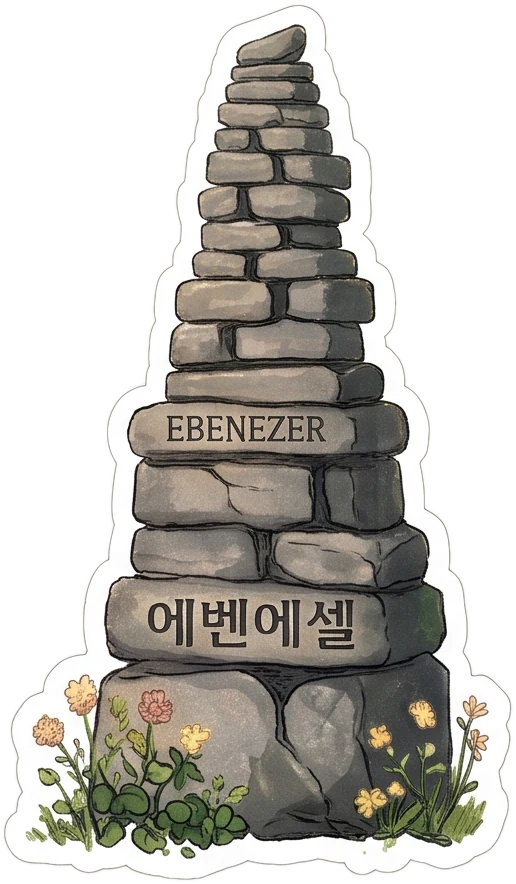
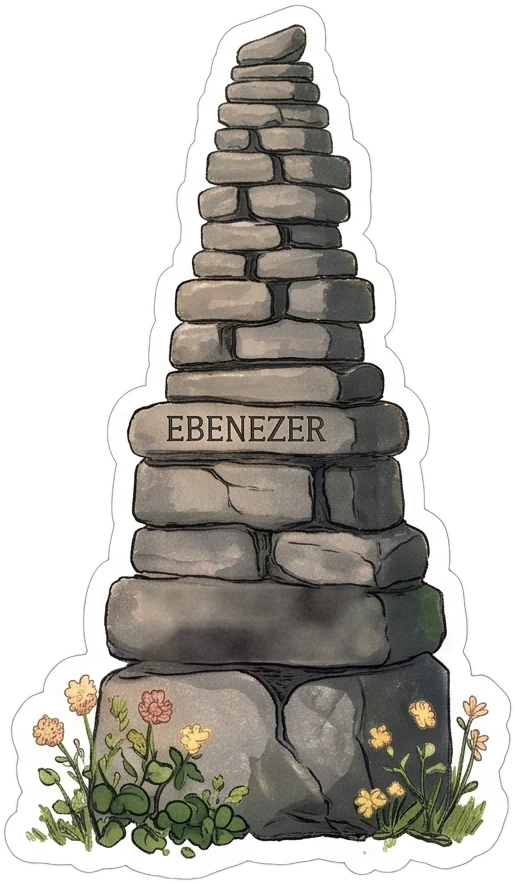
전체 화면을 시작화면 톤으로: 크림 바탕·갈색 글자·Italiana/고운바탕, 휴대폰 페이지도 같이
- 색·글꼴 토큰 교체, 버튼·칩·카메라 안내·카운트다운을 같은 톤으로
- 패널 제목은 한 줄에 맞게 크기 조정 (촬영 시작 버튼이 밀리지 않게)
- 돌탑 스티커의 한글 '에벤에셀' 글씨 지움
- 라벨의 ✦ 표시 정리

Claude-Session: https://claude.ai/code/session_011XYcDUqcndqHgyisKCmvB1

Changed region(s): [[0.2791, 0.6414, 0.7132, 0.7636]]

diff --git a/index.html b/index.html
@@ -13,29 +13,30 @@
 <link rel="apple-touch-icon" href="icon-512.png">
 <link rel="stylesheet" href="https://fonts.googleapis.com/css2?family=Anton&family=Inter:wght@500;600&family=Noto+Sans+KR:wght@400;500;700&family=Caveat:wght@700&family=Gowun+Dodum&family=Fraunces:ital,opsz,wght@1,9..144,500&family=Gaegu:wght@700&family=Space+Mono:wght@400;700&family=DM+Serif+Display:ital@1&family=Gowun+Batang:wght@400;700&family=Bagel+Fat+One&family=Italiana&display=swap">
 <style>
-  /* 포토부스 키오스크 — 흑백 에디토리얼. 밝은 회색 바탕, 흰 카드, 검은 알약 버튼, 좁고 굵은 영문 제목.
-     카메라(왼쪽/위) + 안내 패널(오른쪽/아래). 조명 아래 밝은 공간에 두는 기기라 밝은 화면 한 가지로 디자인. */
+  /* 포토부스 키오스크 — 시작화면(무지개 언덕)과 같은 톤: 따뜻한 크림 바탕, 짙은 갈색 글자·버튼,
+     얇은 세리프 영문(Italiana) + 고운바탕 제목. 카메라(왼쪽/위) + 안내 패널(오른쪽/아래). */
   :root {
     color-scheme: light;
-    --bg: #ececec;        /* 바탕 */
-    --card: #ffffff;      /* 패널 */
-    --soft: #f3f3f3;      /* 빈 칸, QR 카드 */
-    --line: #e1e1e1;
-    --ink: #111111;       /* 글자, 버튼 */
-    --mute: #8a8a8a;      /* 보조 글자 */
-    --ok: #1f7a3a; --warn: #c62828;
-    --display: "Anton", "Arial Narrow", "Noto Sans KR", sans-serif;
-    --latin: "Inter", system-ui, sans-serif;
+    --bg: #EEE6D8;        /* 바탕 */
+    --card: #FBF8F2;      /* 패널 */
+    --soft: #F3ECE0;      /* 빈 칸, QR 카드 */
+    --line: #E2D7C5;
+    --ink: #3A3029;       /* 글자, 버튼 */
+    --mute: #8A7D70;      /* 보조 글자 */
+    --ok: #4F7A45; --warn: #B4483C;
+    --display: "Italiana", "Gowun Batang", Georgia, serif;
+    --head: "Gowun Batang", "Noto Sans KR", serif;
+    --latin: "Gowun Batang", Georgia, serif;
     --body: "Noto Sans KR", system-ui, -apple-system, "Apple SD Gothic Neo", "Malgun Gothic", sans-serif;
   }
   * { box-sizing: border-box; }
   [hidden] { display: none !important; }
   html, body { height: 100%; margin: 0; overscroll-behavior: none; }
-  body { background: var(--bg); color: var(--ink); font-family: var(--body); font-size: 17px; letter-spacing: -0.01em;
+  body { background: radial-gradient(ellipse 90% 70% at 50% 0%, #FBF6EC 0%, var(--bg) 70%) fixed, var(--bg); color: var(--ink); font-family: var(--body); font-size: 17px; letter-spacing: -0.01em;
          -webkit-user-select: none; user-select: none; -webkit-tap-highlight-color: transparent; }
   button { font: inherit; color: inherit; touch-action: manipulation; }
   button:focus-visible, input:focus-visible, select:focus-visible { outline: 3px solid var(--ink); outline-offset: 3px; }
-  .label { font-family: var(--latin); font-weight: 600; font-size: 12px; letter-spacing: .14em; text-transform: uppercase; color: var(--mute); }
+  .label { font-family: var(--latin); font-weight: 400; font-size: 12.5px; letter-spacing: .18em; text-transform: uppercase; color: #7A6D61; }
 
   .app { height: 100%; display: grid; grid-template-columns: minmax(0, 1fr) 330px; gap: 20px;
          padding-block: max(20px, env(safe-area-inset-top, 0px)) max(20px, env(safe-area-inset-bottom, 0px));
@@ -43,7 +44,8 @@
 
   /* ---------- 카메라: 결과 사진과 같은 3:2, 남는 공간 안에서 최대 ---------- */
   .stage { container-type: size; min-height: 0; display: grid; place-items: center; }
-  .cam { position: relative; width: min(100cqw, calc(var(--ratio, 1.5) * 100cqh)); aspect-ratio: var(--ratio, 1.5); border-radius: 32px; overflow: hidden; background: #000; }
+  .cam { position: relative; width: min(100cqw, calc(var(--ratio, 1.5) * 100cqh)); aspect-ratio: var(--ratio, 1.5); border-radius: 28px; overflow: hidden; background: #2A231E;
+         box-shadow: 0 30px 60px -36px rgba(58,48,41,.55); }
   .cam video { width: 100%; height: 100%; object-fit: cover; display: block; }
   .cam video.mirror { transform: scaleX(-1); }
   /* 필터 미리보기: 영상에는 CSS 필터, 빛 효과는 위에 덧씌움 (찍힐 때는 같은 효과를 캔버스로 입힘) */
@@ -62,9 +64,9 @@
   .tray { display: flex; gap: 8px; overflow-x: auto; padding: 2px 2px 6px; scroll-snap-type: x proximity; }
   .tray button { flex: none; width: 64px; height: 64px; border-radius: 14px; border: 1px solid var(--line); background: var(--soft); padding: 6px; cursor: pointer; scroll-snap-align: start; }
   .tray button img { width: 100%; height: 100%; object-fit: contain; pointer-events: none; }
-  .tray button[aria-pressed="true"] { box-shadow: inset 0 0 0 2px var(--ink); background: #fff; }
+  .tray button[aria-pressed="true"] { box-shadow: inset 0 0 0 2px var(--ink); background: var(--card); }
   .stk-tools { display: flex; gap: 6px; align-items: center; flex-wrap: wrap; }
-  .stk-tools button { border: 1px solid var(--line); background: #fff; border-radius: 999px; padding: 8px 14px; font-size: 14px; font-weight: 500; cursor: pointer; }
+  .stk-tools button { border: 1px solid var(--line); background: var(--card); border-radius: 999px; padding: 8px 14px; font-size: 14px; font-weight: 500; cursor: pointer; }
   .stk-tools button:disabled { opacity: .35; }
   .stk-tools .hint { margin-left: auto; }
   .lookfx.film { opacity: 1; mix-blend-mode: multiply; background: radial-gradient(90% 90% at 50% 50%, transparent 55%, rgba(60,40,20,.35)); }
@@ -76,17 +78,17 @@
       linear-gradient(var(--b), var(--b)) bottom left / var(--l) var(--t) no-repeat, linear-gradient(var(--b), var(--b)) bottom left / var(--t) var(--l) no-repeat,
       linear-gradient(var(--b), var(--b)) bottom right / var(--l) var(--t) no-repeat, linear-gradient(var(--b), var(--b)) bottom right / var(--t) var(--l) no-repeat; }
   .chip { position: absolute; z-index: 3; top: 34px; left: 50%; transform: translateX(-50%); display: flex; align-items: center; gap: 10px;
-          background: #fff; color: var(--ink); padding: 10px 20px 10px 10px; border-radius: 999px; font-size: 18px; font-weight: 500; white-space: nowrap; }
-  .chip b { font-family: var(--latin); font-weight: 600; font-size: 13px; letter-spacing: .08em; background: var(--ink); color: #fff; border-radius: 999px; padding: 6px 10px; }
+          background: rgba(251,248,242,.94); color: var(--ink); padding: 10px 20px 10px 10px; border-radius: 999px; font-size: 18px; font-weight: 500; white-space: nowrap; font-family: var(--head); }
+  .chip b { font-family: var(--latin); font-weight: 400; font-size: 13px; letter-spacing: .08em; background: var(--ink); color: #FBF6EC; border-radius: 999px; padding: 6px 10px; }
   .count { position: absolute; inset: 0; z-index: 2; display: grid; place-items: center; pointer-events: none; }
   .ring { width: min(40%, 280px); aspect-ratio: 1; position: relative; display: grid; place-items: center; }
   .ring svg { position: absolute; inset: 0; transform: rotate(-90deg); }
-  .ring circle { fill: rgba(0,0,0,.28); stroke: #fff; stroke-width: 2.5; stroke-dasharray: 289; stroke-dashoffset: 0; }
+  .ring circle { fill: rgba(40,30,22,.26); stroke: #FBF6EC; stroke-width: 2.5; stroke-dasharray: 289; stroke-dashoffset: 0; }
   .ring.tick circle { animation: drain 1s linear forwards; }
   @keyframes drain { to { stroke-dashoffset: 289; } }
-  .ring span { position: relative; font-family: var(--display); color: #fff; font-size: clamp(100px, 15vw, 210px); line-height: 1; }
-  .ring.ready span { font-family: var(--body); font-weight: 700; font-size: clamp(30px, 4vw, 46px); }
-  .flash { position: absolute; inset: 0; z-index: 4; background: #fff; opacity: 0; pointer-events: none; }
+  .ring span { position: relative; font-family: var(--display); color: #FBF6EC; font-size: clamp(110px, 16vw, 230px); line-height: 1; text-shadow: 0 2px 24px rgba(40,30,22,.35); }
+  .ring.ready span { font-family: var(--head); font-weight: 700; font-size: clamp(30px, 4vw, 46px); }
+  .flash { position: absolute; inset: 0; z-index: 4; background: #FFFBF3; opacity: 0; pointer-events: none; }
   .flash.on { animation: flash .5s ease-out; }
   @keyframes flash { from { opacity: .95 } to { opacity: 0 } }
   .nocam { position: absolute; inset: 0; z-index: 5; display: flex; flex-direction: column; align-items: center; justify-content: center;
@@ -102,9 +104,11 @@
   .app.shooting .chip b { font-size: 15px; }
 
   /* ---------- 패널 ---------- */
-  .panel { background: var(--card); border-radius: 32px; padding: 28px; display: flex; flex-direction: column; gap: 24px; min-height: 0; overflow: auto; }
+  .panel { background: var(--card); border-radius: 28px; box-shadow: 0 20px 50px -38px rgba(58,48,41,.45); padding: 28px; display: flex; flex-direction: column; gap: 24px; min-height: 0; overflow: auto; }
   .topline { display: flex; justify-content: space-between; align-items: center; }
-  .brand h1 { font-family: var(--display); font-weight: 400; font-size: 46px; line-height: .9; margin: 0; text-transform: uppercase; letter-spacing: .005em; }
+  .brand h1 { font-family: var(--display); font-weight: 400; font-size: 27px; line-height: 1.05; margin: 0; text-transform: uppercase; letter-spacing: .07em; white-space: nowrap; }
+  .app.done .brand h1, .app.select .brand h1 { font-size: 38px; }
+  @media (max-width: 900px), (orientation: portrait) { .brand h1 { font-size: 38px; } }
   .brand p { margin: 10px 0 0; color: var(--mute); font-size: 15px; }
   .view { display: flex; flex-direction: column; gap: 22px; flex: 1; min-height: 0; }
 
@@ -116,9 +120,9 @@
   .slot.filled { color: transparent; }
   .slot.retake { cursor: pointer; }
   .slot.retake::after { content: "다시"; position: absolute; right: 6px; bottom: 6px; font-family: var(--body); font-size: 12px; font-weight: 500; letter-spacing: 0;
-                        padding: 3px 9px; border-radius: 999px; background: #fff; color: var(--ink); }
+                        padding: 3px 9px; border-radius: 999px; background: var(--card); color: var(--ink); }
 
-  .lead { font-size: 25px; font-weight: 700; line-height: 1.3; margin: 0; letter-spacing: -0.03em; text-wrap: balance; }
+  .lead { font-family: var(--head); font-size: 25px; font-weight: 700; line-height: 1.3; margin: 0; letter-spacing: -0.03em; text-wrap: balance; }
   .lead small { display: block; font-size: 15px; font-weight: 400; color: var(--mute); margin-top: 10px; letter-spacing: -0.01em; line-height: 1.5; }
   .guide { list-style: none; margin: 0; padding: 0; border-top: 1px solid var(--line); }
   #idleView .guide { display: none; }
@@ -126,8 +130,8 @@
   .guide li i { font-style: normal; font-family: var(--latin); font-weight: 600; font-size: 12px; letter-spacing: .1em; color: var(--mute); }
 
   .cta { margin-top: auto; display: flex; align-items: center; justify-content: center; gap: 12px; border: 0; border-radius: 999px; padding: 24px 28px;
-         font-size: 22px; font-weight: 700; cursor: pointer; background: var(--ink); color: #fff; }
-  .cta::after { content: "→"; font-family: var(--latin); font-weight: 500; }
+         font-size: 22px; font-weight: 700; cursor: pointer; background: var(--ink); color: #FBF6EC; box-shadow: 0 14px 30px -18px rgba(58,48,41,.6); }
+  .cta::after { content: "→"; font-family: Georgia, serif; font-weight: 400; }
   .cta:active { transform: scale(.98); }
   .cta:disabled { opacity: .4; }
   .ghost { border: 1px solid var(--line); background: transparent; border-radius: 999px; padding: 15px; font-size: 16px; font-weight: 500; cursor: pointer; color: var(--ink); }
@@ -140,12 +144,12 @@
   .lay { display: inline-flex; align-items: center; gap: 8px; }
   .lay svg { width: 18px; height: 18px; flex: none; }
   .chips { display: flex; flex-wrap: wrap; gap: 8px; }
-  .chips button { border: 1px solid var(--line); background: #fff; border-radius: 999px; padding: 10px 16px; font-size: 15px; font-weight: 500; cursor: pointer; }
-  .chips button[aria-pressed="true"] { background: var(--ink); border-color: var(--ink); color: #fff; }
+  .chips button { border: 1px solid var(--line); background: var(--card); border-radius: 999px; padding: 10px 16px; font-size: 15px; font-weight: 500; cursor: pointer; }
+  .chips button[aria-pressed="true"] { background: var(--ink); border-color: var(--ink); color: #FBF6EC; }
   .chips button .sw { display: inline-block; width: 12px; height: 12px; border-radius: 999px; margin-right: 6px; vertical-align: -1px; box-shadow: inset 0 0 0 1px rgba(0,0,0,.15); }
 
   .pose { padding: 12px 0 4px; }
-  .pose .t { font-size: 44px; font-weight: 700; margin-top: 12px; letter-spacing: -0.03em; text-wrap: balance; }
+  .pose .t { font-family: var(--head); font-size: 44px; font-weight: 700; margin-top: 12px; letter-spacing: -0.03em; text-wrap: balance; }
 
   /* ---------- 결과: 카메라를 접고 전체 폭 — 사진 | QR | 다시 찍기·다음 ---------- */
   .app.done, .app.select { grid-template-columns: 1fr; grid-template-rows: minmax(0, 1fr); }
@@ -153,21 +157,21 @@
   /* 고르기: 미리보기 | 찍은 사진들 */
   #selectView { display: grid; grid-template-columns: var(--pvw, 300px) minmax(0, 1fr); grid-template-rows: minmax(0, 1fr); gap: 28px; align-items: stretch; }
   .sel-side { display: flex; flex-direction: column; gap: 16px; min-width: 0; min-height: 0; }
-  .sel-side h2 { margin: 6px 0 0; font-size: 28px; font-weight: 700; letter-spacing: -0.03em; }
+  .sel-side h2 { margin: 6px 0 0; font-family: var(--head); font-size: 28px; font-weight: 700; letter-spacing: -0.03em; }
   /* 사진 칸 크기는 JS(fitTakes)가 남는 공간에 맞춰 계산 → 겹치거나 작아지지 않음 */
   .takes { flex: 1 1 auto; min-height: 0; display: grid; gap: 16px; align-content: center; justify-content: center; overflow: hidden; padding: 6px; }
   .take { position: relative; border: 0; padding: 0; border-radius: 12px; overflow: hidden; background: var(--soft) center / cover no-repeat; cursor: pointer; }
   .take[aria-pressed="true"] { box-shadow: 0 0 0 4px var(--ink); }
   .take[aria-pressed="false"] { opacity: .55; }
   .take b { position: absolute; top: 8px; left: 8px; min-width: 30px; height: 30px; padding: 0 8px; border-radius: 999px; display: grid; place-items: center;
-            background: var(--ink); color: #fff; font-family: var(--latin); font-size: 14px; font-weight: 600; }
-  .take[aria-pressed="false"] b { background: rgba(255,255,255,.9); color: var(--ink); }
+            background: var(--ink); color: #FBF6EC; font-family: var(--latin); font-size: 14px; font-weight: 700; }
+  .take[aria-pressed="false"] b { background: rgba(251,248,242,.92); color: var(--ink); }
   #doneView { display: grid; grid-template-columns: var(--pvw, 300px) minmax(0, 1fr) minmax(0, 340px); grid-template-rows: minmax(0, 1fr); gap: 24px; align-items: stretch; }
   /* 사진 미리보기: 칸 안에서 비율 그대로 최대 크기 (늘어나지 않음) */
   .pv { min-width: 0; min-height: 0; display: flex; align-items: center; justify-content: center; }
   .pv img { display: block; max-width: 100%; max-height: 100%; width: auto; height: auto; box-shadow: 0 1px 0 var(--line), 0 24px 40px -24px rgba(0,0,0,.35); }
   .qrcard { background: var(--soft); border-radius: 24px; padding: 28px; display: flex; flex-direction: column; align-items: center; justify-content: center; gap: 18px; text-align: center; min-width: 0; }
-  .qrcard h2 { margin: 0; font-size: 22px; font-weight: 700; letter-spacing: -0.02em; }
+  .qrcard h2 { margin: 0; font-family: var(--head); font-size: 22px; font-weight: 700; letter-spacing: -0.02em; }
   .qrframe { position: relative; width: 100%; max-width: 340px; aspect-ratio: 1; padding: 22px; --b: var(--ink); --l: 34px; --t: 3px;
     background:
       linear-gradient(var(--b), var(--b)) top left / var(--l) var(--t) no-repeat, linear-gradient(var(--b), var(--b)) top left / var(--t) var(--l) no-repeat,
@@ -177,7 +181,7 @@
   .qrcard #qr { width: 100%; height: 100%; display: grid; place-items: center; background: #fff; border-radius: 6px; }
   .qrcard canvas { width: 100%; height: auto; image-rendering: pixelated; }
   .qrcard ol { margin: 0; padding: 0; list-style: none; display: flex; gap: 8px; flex-wrap: wrap; justify-content: center; font-size: 14px; color: var(--mute); }
-  .qrcard ol li { background: #fff; border-radius: 999px; padding: 6px 12px; }
+  .qrcard ol li { background: var(--card); border-radius: 999px; padding: 6px 12px; }
   .qrcard ol b { font-family: var(--latin); color: var(--ink); margin-right: 4px; }
   .side { display: flex; flex-direction: column; gap: 14px; min-width: 0; }
   .status { font-size: 15px; line-height: 1.5; }
@@ -280,11 +284,11 @@
   }
 
   /* ---------- 프레임 고르기 (STEP 01) ---------- */
-  .pick { position: fixed; inset: 0; z-index: 5; background: var(--bg); display: grid; grid-template-rows: auto minmax(0, 1fr) auto; gap: 22px;
+  .pick { position: fixed; inset: 0; z-index: 5; background: radial-gradient(ellipse 90% 70% at 50% 0%, #FBF6EC 0%, var(--bg) 70%), var(--bg); display: grid; grid-template-rows: auto minmax(0, 1fr) auto; gap: 22px;
           padding-block: max(28px, env(safe-area-inset-top, 0px)) max(24px, env(safe-area-inset-bottom, 0px));
           padding-left: max(36px, env(safe-area-inset-left, 0px)); padding-right: max(36px, env(safe-area-inset-right, 0px)); }
   .pick-head { display: flex; justify-content: space-between; align-items: flex-end; gap: 20px; flex-wrap: wrap; }
-  .pick-head h2 { margin: 8px 0 0; font-size: 34px; font-weight: 700; letter-spacing: -0.03em; }
+  .pick-head h2 { margin: 8px 0 0; font-family: var(--head); font-size: 34px; font-weight: 700; letter-spacing: -0.03em; }
   .pick-now { margin: 0; font-size: 16px; font-weight: 500; color: var(--mute); }
   .pick-body { display: grid; grid-template-columns: minmax(0, 1fr) minmax(0, 1.5fr); gap: 24px; min-height: 0; }
   .pk-prev { position: relative; background: var(--card); border-radius: 26px; min-height: 0; }
@@ -298,7 +302,7 @@
   .shape span { display: grid; min-width: 0; }
   .shape strong { font-size: 16px; font-weight: 700; white-space: nowrap; overflow: hidden; text-overflow: ellipsis; }
   .shape small { font-size: 12px; color: var(--mute); }
-  .shape[aria-pressed="true"] { background: var(--ink); color: #fff; }
+  .shape[aria-pressed="true"] { background: var(--ink); color: #FBF6EC; }
   .shape[aria-pressed="true"] small { color: rgba(255,255,255,.65); }
   .shape:active { transform: scale(.98); }
   .styles { display: grid; grid-template-columns: repeat(4, minmax(0, 1fr)); grid-template-rows: repeat(2, minmax(0, 1fr)); gap: 10px; min-height: 0; }
@@ -385,7 +389,7 @@
   </button>
   <div class="home-main">
     <div class="home-head">
-      <div class="topline" style="margin-bottom:22px"><span class="label">Photo Booth ✦ 01—04</span><span class="label" id="homeDate"></span></div>
+      <div class="topline" style="margin-bottom:22px"><span class="label">Photo Booth · 01—04</span><span class="label" id="homeDate"></span></div>
       <h1 class="home-title" id="homeTitle"></h1>
     </div>
     <div class="home-foot">
@@ -402,7 +406,7 @@
 
 <section class="pick" id="pick" hidden aria-label="프레임 고르기">
   <div class="pick-head">
-    <div><span class="label">Step 01 ✦ Frame</span><h2>프레임을 골라 주세요</h2></div>
+    <div><span class="label">Step 01 · Frame</span><h2>프레임을 골라 주세요</h2></div>
     <p class="pick-now" id="pickNow"></p>
   </div>
   <div class="pick-body">
@@ -446,7 +450,7 @@
   </div></section>
 
   <aside class="panel">
-    <div class="topline"><span class="label" id="cutLabel">Photo Booth ✦ 01—04</span><span class="label" id="dateLabel"></span></div>
+    <div class="topline"><span class="label" id="cutLabel">Photo Booth · 01—04</span><span class="label" id="dateLabel"></span></div>
     <header class="brand">
       <h1 id="title">Here by Grace</h1>
       <p id="subtitle">성도교제의 밤</p>
@@ -457,8 +461,8 @@
       <button class="back" id="backBtn" type="button">← 프레임 다시 고르기</button>
       <p class="lead">은혜로 여기까지,<br>오늘을 사진으로 남겨요<small><b id="secs">5</b>초 간격으로 <span id="nWord">네</span> 번 촬영해요. 화면 속 안내에 맞춰 포즈를 취해 주세요.</small></p>
       <div class="steps" id="thumbs"></div>
-      <div class="opt"><span class="label">Step 02 ✦ Filter</span><div class="chips" id="lookChips" role="group" aria-label="필터"></div></div>
-      <div class="opt"><span class="label">Sticker ✦ 눌러서 추가, 화면에서 끌어서 옮기기</span>
+      <div class="opt"><span class="label">Step 02 · Filter</span><div class="chips" id="lookChips" role="group" aria-label="필터"></div></div>
+      <div class="opt"><span class="label">Sticker · 눌러서 추가, 화면에서 끌어서 옮기기</span>
         <div class="tray" id="tray" role="group" aria-label="스티커"></div>
         <div class="stk-tools"><button id="stkSmaller" type="button">작게</button><button id="stkBigger" type="button">크게</button><button id="stkDel" type="button">지우기</button><button id="stkClear" type="button">모두 지우기</button></div>
       </div>
@@ -810,7 +814,7 @@
     document.documentElement.style.setProperty("--ratio", slotRatio().toFixed(4));
     document.documentElement.style.setProperty("--n", n);
     $("nWord").textContent = KWORD[totalTakes()] || totalTakes();
-    $("cutLabel").textContent = "Photo Booth ✦ 01—" + two(n);
+    $("cutLabel").textContent = "Photo Booth · 01—" + two(n);
     renderThumbs();
   }
   function previewLook() {

diff --git a/functions/_lib.js b/functions/_lib.js
@@ -31,39 +31,39 @@ export function safeEqual(a, b) {
   return d === 0;
 }
 
-// 휴대폰용 페이지 틀 — 촬영 화면과 같은 흑백 에디토리얼
-export const FONTS = `<link rel="stylesheet" href="https://fonts.googleapis.com/css2?family=Anton&family=Inter:wght@500;600&family=Noto+Sans+KR:wght@400;500;700&display=swap">`;
+// 휴대폰용 페이지 틀 — 키오스크 시작화면과 같은 톤 (따뜻한 크림, 얇은 세리프 + 고운바탕)
+export const FONTS = `<link rel="stylesheet" href="https://fonts.googleapis.com/css2?family=Italiana&family=Gowun+Batang:wght@400;700&family=Noto+Sans+KR:wght@400;500;700&display=swap">`;
 
 export function page(title, inner) {
   return `<!doctype html><html lang="ko"><head><meta charset="utf-8">
 <meta name="viewport" content="width=device-width,initial-scale=1,viewport-fit=cover">
-<meta name="theme-color" content="#ececec">
+<meta name="theme-color" content="#EEE6D8">
 <title>${title}</title>
 ${FONTS}
 <style>
-  :root { color-scheme: light; --bg:#ececec; --card:#fff; --soft:#f3f3f3; --line:#e1e1e1; --ink:#111; --mute:#8a8a8a; }
+  :root { color-scheme: light; --bg:#EEE6D8; --card:#FBF8F2; --line:#E2D7C5; --ink:#3A3029; --mute:#8A7D70; }
   * { box-sizing:border-box; }
-  body { margin:0; min-height:100dvh; background:var(--bg); color:var(--ink); letter-spacing:-0.01em;
+  body { margin:0; min-height:100dvh; color:var(--ink); letter-spacing:-0.01em;
+         background: radial-gradient(ellipse 100% 60% at 50% 0%, #FBF6EC 0%, var(--bg) 75%) fixed, var(--bg);
          font-family:"Noto Sans KR",system-ui,-apple-system,"Apple SD Gothic Neo","Malgun Gothic",sans-serif; }
   main { max-width:480px; margin:0 auto;
          padding: max(16px, env(safe-area-inset-top)) max(16px, env(safe-area-inset-right)) max(24px, env(safe-area-inset-bottom)) max(16px, env(safe-area-inset-left)); }
-  .card { background:var(--card); border-radius:28px; padding:24px 22px 26px; }
-  .label { font-family:"Inter",system-ui,sans-serif; font-weight:600; font-size:11px; letter-spacing:.14em; text-transform:uppercase; color:var(--mute); }
-  .top { display:flex; justify-content:space-between; }
-  h1 { font-family:"Anton","Arial Narrow",sans-serif; font-weight:400; font-size:52px; line-height:.9; margin:14px 0 0; text-transform:uppercase; }
-  .sub { color:var(--mute); margin:8px 0 0; font-size:14px; }
-  .photo { display:block; height:min(52dvh,880px); width:auto; max-width:100%; margin:22px auto; box-shadow:0 1px 0 var(--line), 0 20px 36px -22px rgba(0,0,0,.4); -webkit-touch-callout: default; }
+  .card { background:var(--card); border-radius:26px; padding:26px 22px 26px; text-align:center; box-shadow:0 20px 50px -38px rgba(58,48,41,.45); }
+  .label { font-family:"Gowun Batang",serif; font-size:12px; letter-spacing:.2em; text-transform:uppercase; color:#7A6D61; }
+  h1 { font-family:"Italiana",Georgia,serif; font-weight:400; font-size:clamp(24px, 7.6vw, 40px); white-space:nowrap; letter-spacing:.08em; line-height:1.05; margin:14px 0 0; text-transform:uppercase; }
+  .sub { color:var(--mute); margin:8px 0 0; font-size:14px; font-family:"Gowun Batang",serif; }
+  .photo { display:block; height:min(52dvh,880px); width:auto; max-width:100%; margin:22px auto; box-shadow:0 20px 36px -22px rgba(58,48,41,.45); -webkit-touch-callout: default; }
   .btn { display:flex; align-items:center; justify-content:center; gap:10px; width:100%; font:inherit; font-size:18px; font-weight:700; padding:19px; border-radius:999px;
-         text-decoration:none; color:#fff; background:var(--ink); }
-  .btn::after { content:"↓"; font-family:"Inter",sans-serif; font-weight:500; }
+         text-decoration:none; color:#FBF6EC; background:var(--ink); box-shadow:0 14px 30px -18px rgba(58,48,41,.6); }
+  .btn::after { content:"↓"; font-family:Georgia,serif; font-weight:400; }
   .btn:active { transform:scale(.98); }
   .btn:focus-visible { outline:3px solid var(--ink); outline-offset:3px; }
-  .tip { color:var(--mute); font-size:13px; line-height:1.7; margin:14px 0 0; text-align:center; }
-  .verse { margin:18px 4px 0; display:flex; justify-content:space-between; gap:12px; align-items:baseline; color:var(--mute); font-size:13px; }
-  .verse b { color:var(--ink); font-weight:500; }
+  .tip { color:var(--mute); font-size:13px; line-height:1.7; margin:14px 0 0; }
+  .verse { margin:22px 4px 0; text-align:center; color:var(--mute); font-family:"Gowun Batang",serif; font-size:13px; line-height:1.8; }
+  .verse b { display:block; color:var(--ink); font-weight:400; font-size:16px; }
   .empty { margin:40px 0 10px; color:var(--mute); line-height:1.7; }
 </style></head><body><main>
-<div class="card"><div class="top"><span class="label">Photo Booth ✦</span><span class="label">Keep the grace alive</span></div>${inner}</div>
-<p class="verse"><b>여호와께서 여기까지 우리를 도우셨다</b><span>삼상 7:12</span></p>
+<div class="card"><span class="label">Photo Booth · 성도교제의 밤</span>${inner}</div>
+<p class="verse"><b>나의 나 된 것은 하나님의 은혜라</b>고린도전서 15:10</p>
 </main></body></html>`;
 }

diff --git a/functions/p/[id].js b/functions/p/[id].js
@@ -9,7 +9,7 @@ export async function onRequestGet({ params, env }) {
       <p class="empty">사진을 찾을 수 없어요.<br>보관 기간이 지났거나 주소가 잘못되었을 수 있어요.</p>`), 404);
   }
   return html(page(TITLE, `<h1>${TITLE}</h1>
-    <p class="sub">성도교제의 밤 · 오늘의 네 컷</p>
+    <p class="sub">은혜로 여기까지, 오늘의 사진</p>
     <img class="photo" src="/img/${id}" alt="네컷 사진">
     <a class="btn" href="/img/${id}?dl=1">사진 저장하기</a>
     <p class="tip">저장이 안 되면 사진을 <b>길게 눌러</b> 저장해 주세요.<br>
